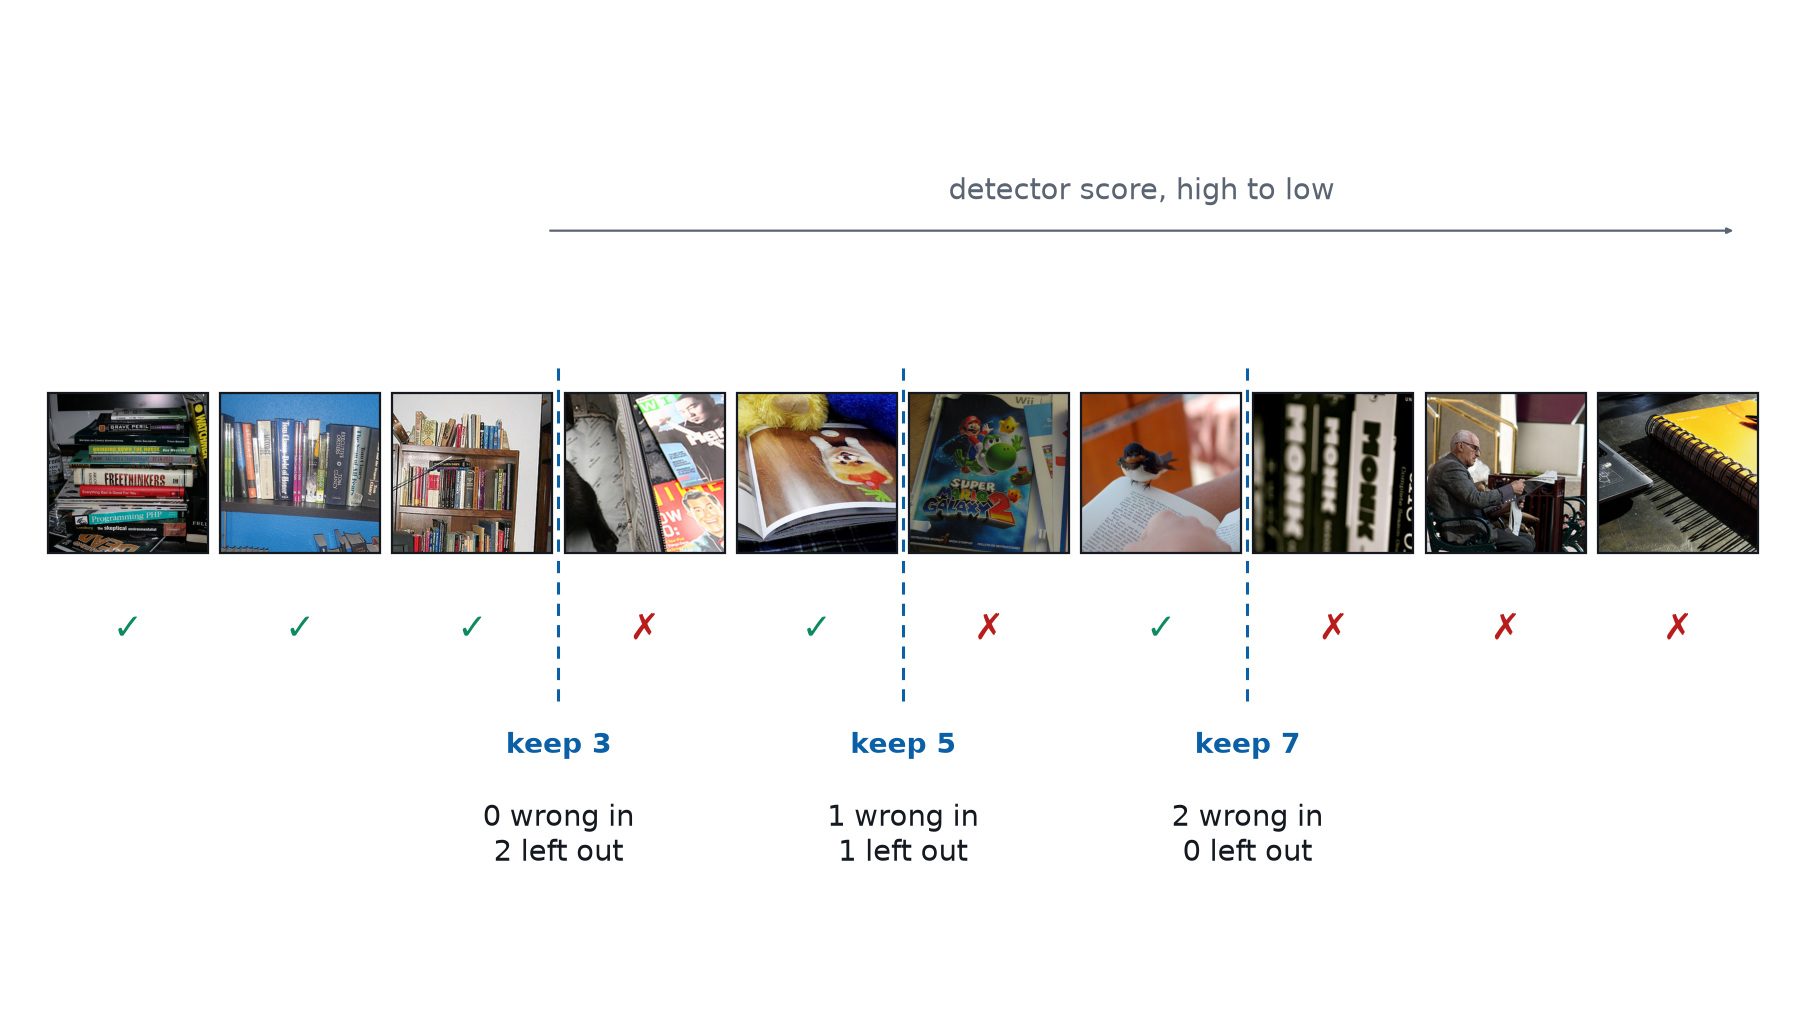
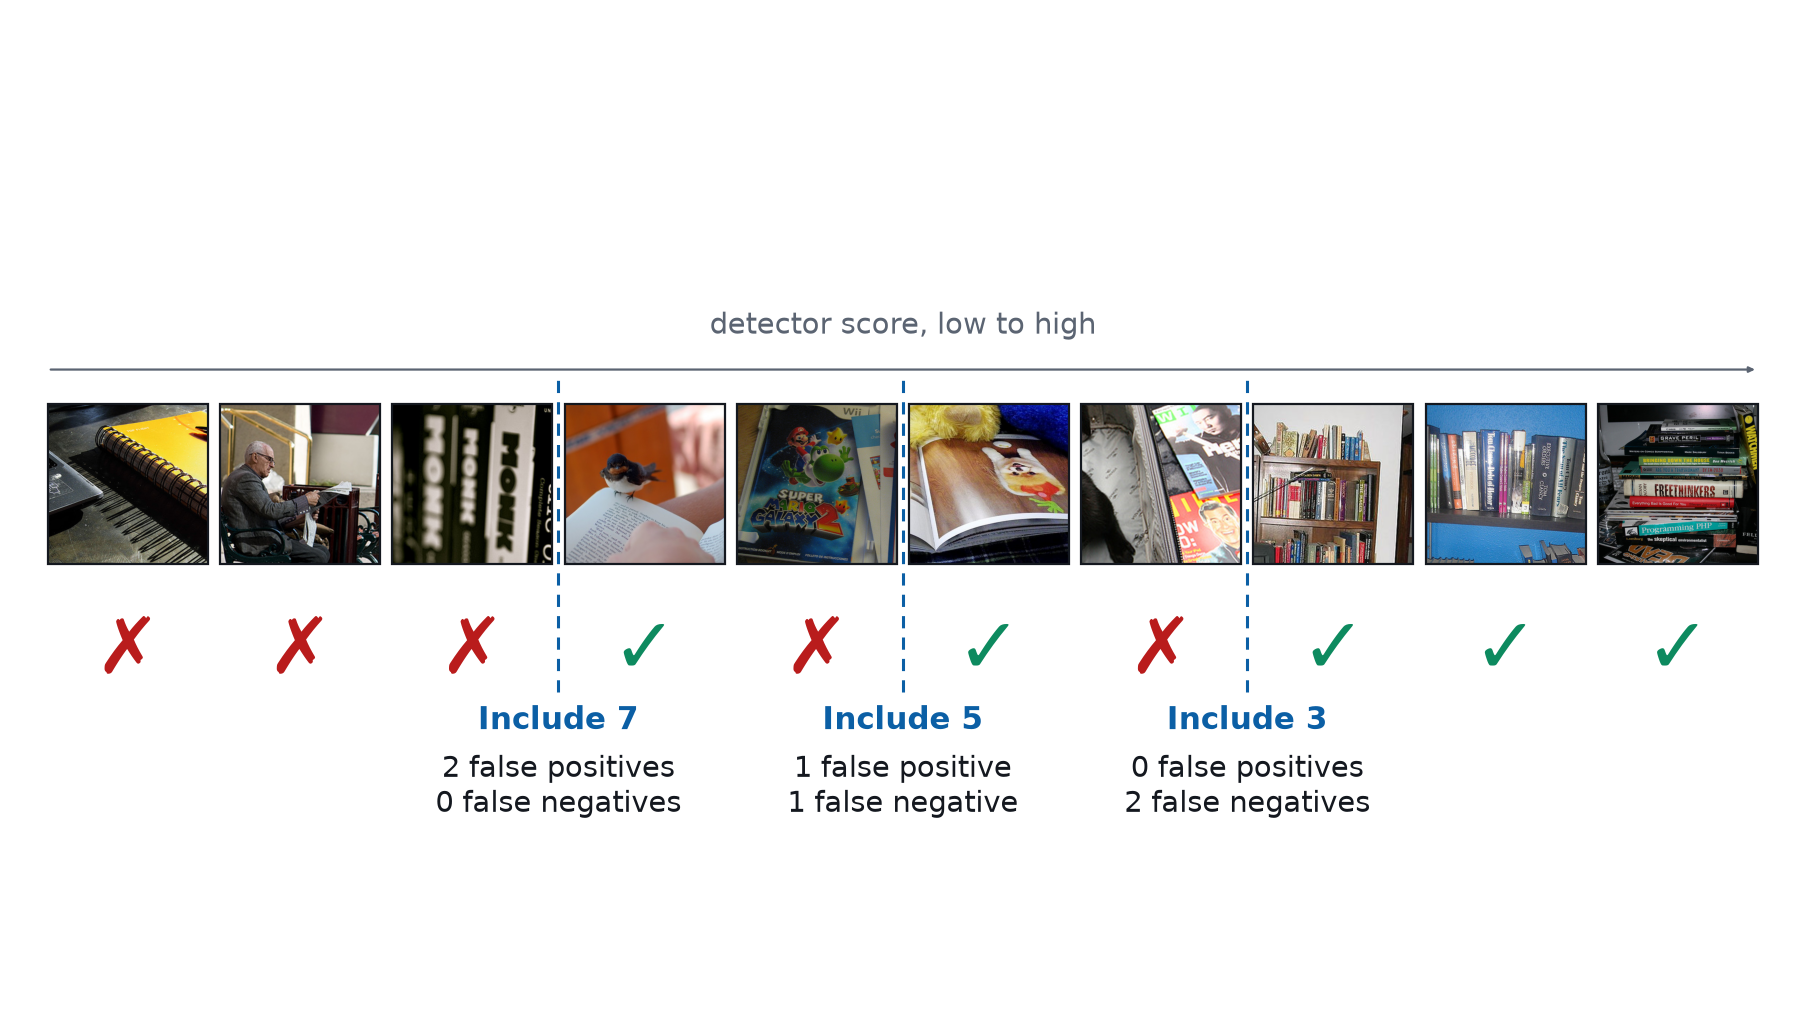
#3296: slide 14 — rank low to high, bigger marks, Include and FP/FN wording
The ranking row now runs worst-first so it reads the way every other score
axis in the deck does, the score arrow spans exactly the tile row it
describes (it used to be indented past the title notch and stop short of the
last tile, matching nothing on the slide), the check and cross marks are
sized to be read from the back of the room, and the cut labels say Include,
false positive and false negative — the words the rest of the deck uses.

Claude-Session: https://claude.ai/code/session_01QJXy35CXHiXh1bmQF1AE3Q

diff --git a/slides/figs/src/make-book-figs.py b/slides/figs/src/make-book-figs.py
@@ -89,17 +89,22 @@ BOUNDARY_MAYBE = ("magazine", "dvd", "notebook")
 #: The full-bleed figure: ten items in the order a detector put them, and what
 #: they actually are. Mostly right, wrong in the middle — the arrangement every
 #: cut rule in Part 3 is arguing about.
+#:
+#: **Lowest score first**, so the row reads left to right the way every other
+#: score axis in the deck does and the way a chart does: positives and high
+#: scores on the right (#3296). The admitted set is therefore the *tail* of
+#: this tuple, which is what `_cut_x` converts a "include N" count into.
 RANKING = (
-    ("stack", True),
-    ("shelf", True),
-    ("bookcase", True),
-    ("magazine", False),
-    ("open", True),
-    ("gamecase", False),
-    ("bird", True),
-    ("dvd", False),
-    ("newspaper", False),
     ("notebook", False),
+    ("newspaper", False),
+    ("dvd", False),
+    ("bird", True),
+    ("gamecase", False),
+    ("open", True),
+    ("magazine", False),
+    ("bookcase", True),
+    ("shelf", True),
+    ("stack", True),
 )
 
 #: Where the three drawn cuts fall, as a count of items admitted. Each is a
@@ -178,34 +183,67 @@ def boundary_fig() -> None:
 
 #: A 16:9 canvas at 80 slide pixels per unit, so the title notch — 300x200
 #: pixels at a 60x42 inset — is the rectangle x 0.75..4.50, y 5.98..8.48 in
-#: these coordinates. Nothing above `RANK_TOP` may reach left of `RANK_INDENT`.
+#: these coordinates. `RANK_TOP` is that rectangle's floor: nothing that spans
+#: the drawing may sit above it, which is what pins the score axis and, under
+#: it, the tile row.
 RANK_CANVAS = (16.0, 9.0)
 RANK_UNIT = 80.0
-RANK_INDENT = 4.80
-RANK_TOP = 5.85
+RANK_TOP = 5.97
 
 RANK_TILE = 1.44
 RANK_GAP = 0.11
-#: The tile row's own top must stay under `RANK_TOP`, which is where the
-#: slide's title reserve ends; `save()` checks the written PNG, but a retune
-#: that breaks it should say so here first.
-RANK_TILE_Y = 4.15
-RANK_MARK_Y = 3.62
-RANK_CUT_LABEL_Y = 2.20
+#: The score axis runs the *exact* width of the tile row and sits directly
+#: above it. It used to be indented past the notch and stop short of the last tile,
+#: which left a line whose length matched nothing on the slide and read as a
+#: second, unrelated object (#3296). Ducking under the notch's floor instead
+#: buys the full span for the price of 1.2 units of headroom nothing was using.
+RANK_AXIS_Y = 5.80
+RANK_AXIS_LABEL_Y = 6.06
+RANK_TILE_Y = 4.05
+RANK_MARK_Y = 3.60
+RANK_CUT_LABEL_Y = 2.78
+
+#: Big enough to read from the back of the room. The mark is the *only* thing
+#: on the slide that says which tiles are books — the thumbnails read as
+#: photographs and not as their contents at this size — so it is sized like a
+#: headline rather than like an annotation (#3296).
+RANK_MARK_PT = 56
 
 
-assert RANK_TILE_Y + RANK_TILE <= RANK_TOP, "the tile row has grown into the title notch"
+assert RANK_TILE_Y + RANK_TILE < RANK_AXIS_Y < RANK_TOP, "the score axis no longer clears the tile row"
 
 
 def _rank_x(index: int) -> float:
     """Left edge of the `index`-th tile, laid out centred on the canvas."""
-    span = len(RANKING) * RANK_TILE + (len(RANKING) - 1) * RANK_GAP
-    return (RANK_CANVAS[0] - span) / 2 + index * (RANK_TILE + RANK_GAP)
+    return _rank_left() + index * (RANK_TILE + RANK_GAP)
+
+
+def _rank_left() -> float:
+    """Left edge of the tile row, and so of the score axis above it."""
+    return (RANK_CANVAS[0] - _rank_span()) / 2
+
+
+def _rank_span() -> float:
+    """Width of the whole tile row."""
+    return len(RANKING) * RANK_TILE + (len(RANKING) - 1) * RANK_GAP
 
 
 def _cut_x(admitted: int) -> float:
-    """The gap between the `admitted`-th tile and the next one."""
-    return _rank_x(admitted) - RANK_GAP / 2
+    """The gap that leaves the top `admitted` items to its right.
+
+    The row runs low score first, so "include 7 of 10" is the boundary before
+    the 4th tile, not after the 7th.
+    """
+    return _rank_x(len(RANKING) - admitted) - RANK_GAP / 2
+
+
+def _errors(admitted: int) -> str:
+    """The two error counts a cut makes, in the words the rest of the deck uses."""
+    kept = RANKING[len(RANKING) - admitted :]
+    dropped = RANKING[: len(RANKING) - admitted]
+    false_pos = sum(1 for _, positive in kept if not positive)
+    false_neg = sum(1 for _, positive in dropped if positive)
+    return f"{false_pos} false positive{'' if false_pos == 1 else 's'}\n{false_neg} false negative{'' if false_neg == 1 else 's'}"
 
 
 def rank_fig() -> None:
@@ -222,20 +260,22 @@ def _rank_stage(stage: int) -> plt.Figure:
     width, height = RANK_CANVAS
     fig, ax = _canvas(width, height, RANK_UNIT)
 
-    # The score axis, indented past the title notch and spending the right
-    # margin to buy the width back — the standard repair for a figure whose top
-    # row spans the drawing (slides/STYLE.md).
-    axis_y = 7.05
+    # The score axis, the exact width of the row it describes and immediately
+    # above it, so that it reads as that row's axis rather than as a second
+    # object. It ducks under the title notch's floor rather than indenting past
+    # its right edge (slides/STYLE.md's "move the one thing that reaches left",
+    # applied vertically): the notch reserves a corner, not a band.
+    left, right = _rank_left(), _rank_left() + _rank_span()
     ax.annotate(
         "",
-        xy=(width - 0.5, axis_y),
-        xytext=(RANK_INDENT, axis_y),
+        xy=(right, RANK_AXIS_Y),
+        xytext=(left, RANK_AXIS_Y),
         arrowprops={"arrowstyle": "-|>,head_width=0.16,head_length=0.34", "color": SOFT, "linewidth": 1.6},
     )
     ax.text(
-        (RANK_INDENT + width - 0.5) / 2,
-        axis_y + 0.22,
-        "detector score, high to low",
+        (left + right) / 2,
+        RANK_AXIS_LABEL_Y,
+        "detector score, low to high",
         ha="center",
         va="bottom",
         fontsize=21,
@@ -252,7 +292,7 @@ def _rank_stage(stage: int) -> plt.Figure:
                 "✓" if positive else "✗",
                 ha="center",
                 va="top",
-                fontsize=26,
+                fontsize=RANK_MARK_PT,
                 color=GREEN if positive else RED,
             )
 
@@ -261,28 +301,26 @@ def _rank_stage(stage: int) -> plt.Figure:
             x = _cut_x(admitted)
             ax.plot(
                 [x, x],
-                [RANK_CUT_LABEL_Y + 0.62, RANK_TOP],
+                [RANK_CUT_LABEL_Y + 0.12, RANK_TILE_Y + RANK_TILE + 0.22],
                 color=BLUE,
                 linewidth=2.2,
                 linestyle=(0, (4, 3)),
                 zorder=4,
             )
-            wrong_in = sum(1 for _, positive in RANKING[:admitted] if not positive)
-            missed = sum(1 for _, positive in RANKING[admitted:] if positive)
             ax.text(
                 x,
-                RANK_CUT_LABEL_Y + 0.34,
-                f"keep {admitted}",
+                RANK_CUT_LABEL_Y,
+                f"Include {admitted}",
                 ha="center",
                 va="top",
-                fontsize=20,
+                fontsize=22,
                 color=BLUE,
                 fontweight="bold",
             )
             ax.text(
                 x,
-                RANK_CUT_LABEL_Y - 0.28,
-                f"{wrong_in} wrong in\n{missed} left out",
+                RANK_CUT_LABEL_Y - 0.42,
+                _errors(admitted),
                 ha="center",
                 va="top",
                 fontsize=21,

diff --git a/slides/fragments/inclusion-rank.md b/slides/fragments/inclusion-rank.md
@@ -8,19 +8,21 @@
 
 <!-- build: figs/book-rank.build2.png -->
 
-<!-- **a** — Ten items in the order the detector put them, best first. This
-     much comes out of the model and out of nothing else, and it is genuinely
-     all the model has to say: a ranking, with no mark on it anywhere saying
-     where a match stops being one. -->
+<!-- **a** — Ten items in the order the detector put them, worst first, so the
+     row runs the way every score axis in this deck runs: the best match is the
+     one on the right. This much comes out of the model and out of nothing
+     else, and it is genuinely all the model has to say: a ranking, with no
+     mark on it anywhere saying where a match stops being one. -->
 
 <!-- **b** — Now what they actually are. Mostly right, wrong in the middle — a
-     magazine fourth, a game case sixth. That is what a ranking looks like
-     twenty votes into a real session, and it is the labels that say so. -->
+     magazine fourth from the top, a game case sixth. That is what a ranking
+     looks like twenty votes into a real session, and it is the labels that say
+     so. -->
 
-<!-- **c** — Three cuts, and every one of them defensible. Keep three and you
-     hand back nothing embarrassing and miss two books. Keep seven and you miss
-     no book and hand back two things that are not books. Keep five splits it.
-     Put the question to the room, then give them the honest answer: the
-     ranking cannot choose, because all three agree with every label on
+<!-- **c** — Three cuts, and every one of them defensible. Include three and you
+     hand back nothing embarrassing and miss two books. Include seven and you
+     miss no book and hand back two things that are not books. Include five
+     splits it. Put the question to the room, then give them the honest answer:
+     the ranking cannot choose, because all three agree with every label on
      screen. What chooses is what the two mistakes are worth to the person who
      asked. -->
